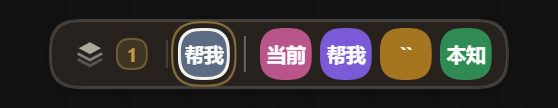
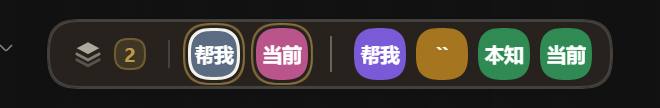
fix: space out active chips and separators
Give the active chip group a wider gap, add horizontal padding for the pulsing status ring, and widen the toolbar divider margins so adjacent running sessions no longer touch each other or the separator.

Changed region(s): [[0.0609, 0.1667, 0.9444, 0.8333], [0.0, 0.4167, 0.0305, 0.4722]]

diff --git a/client.js b/client.js
@@ -185,20 +185,23 @@ const CSS = `
   flex: none;
   width: 1px;
   height: 14px;
-  margin: 0 4px;
+  margin: 0 6px;
   background: var(--dsw-alias-border-l1);
 }
 .dsh-sh-sep[data-strong="true"] {
   height: 18px;
-  margin: 0 6px;
+  margin: 0 8px;
   background: color-mix(in srgb, var(--dsw-alias-label-secondary) 45%, transparent);
 }
 
 .dsh-sh-chips {
   display: flex;
   align-items: center;
-  gap: 4px;
-  padding: 0 1px;
+  gap: 5px;
+  padding: 0 3px;
+}
+.dsh-sh-chips[data-group="active"] {
+  gap: 8px;
 }
 
 .dsh-sh-chip {
@@ -236,7 +239,7 @@ const CSS = `
 }
 .dsh-sh-chip[data-running="true"]::after {
   position: absolute;
-  inset: -3px;
+  inset: -2px;
   border: 1.5px solid var(--dsw-alias-brand-primary);
   border-radius: 50%;
   content: "";
@@ -1093,7 +1096,7 @@ function SessionHub(props) {
         chips.length > 0 || overflow > 0
           ? h(
               'div',
-              { className: 'dsh-sh-chips' },
+              { className: 'dsh-sh-chips', 'data-group': 'active' },
               chips.map(chipNode),
               overflow > 0
                 ? h(
